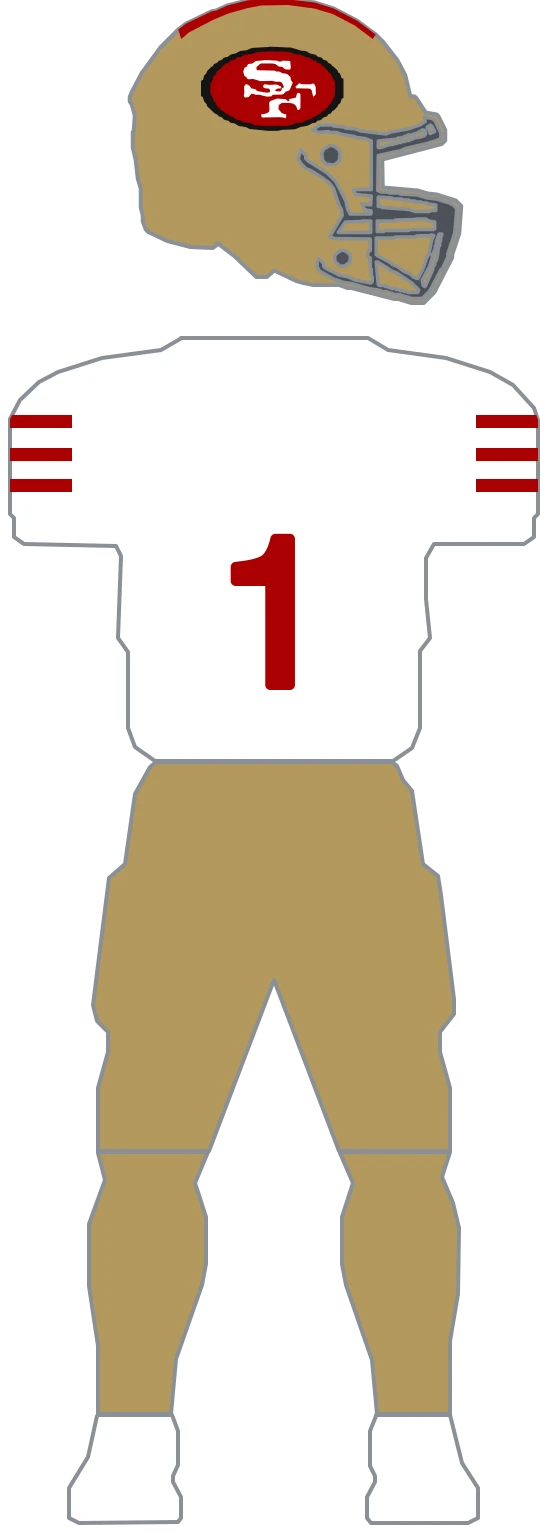
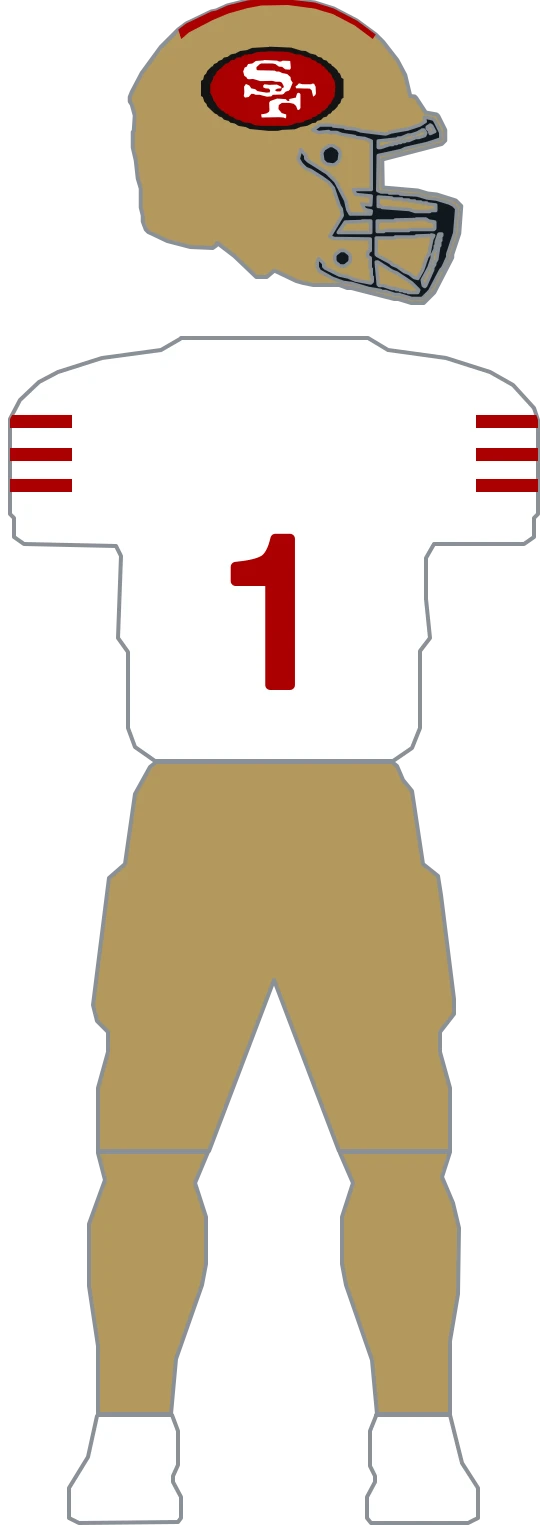
feat(uniforms): migrate 49ers to composable parts and set its black + gold facemasks (#674)
All three San Francisco kits are ONE construction with tokens swapped — crown
stripe, three sleeve bands, and the oval decal (black ring, colored field,
white letters). Home and away share the SAME gold shell (black-ring oval) and
SAME gold pants; Rivalries is the one genuinely different kit, a black shell
and black pants under a black body. Parts express that: 2 helmets (H1 gold,
H2 black), 3 jerseys (J1 red, J2 white, J3 black), 2 pants (P1 gold, P2
black), matching the measured target. The flat form reached gold through
`secondary` at home and `accent` away and black through `primary` only on
Rivalries; parts name those from a team palette, with the decal keyline kept
as a fixed literal (it stays black on both shells).

The migration's parity gate proved all 9 niners rasters (3 kits x 2 variants)
byte-identical against the flat definition, then the flat definition and its
builder helpers were deleted and the team removed from MIGRATED, per the
one-time-proof lifecycle (depth#660).

Facemask follows the parts migration per phase order: the classic matte-gold
shell wears a black cage (named sources; the GUD composite reads it at
#000000), and the 2025 Rivalries black shell wears a gold cage (Riddell:
"low gloss black shell, flash gold facemask"). Only the three -full rasters
move, each change confined to its helmet region (verified pixel-diffed).

diff --git a/lib/uniforms/teams/niners.parts.ts b/lib/uniforms/teams/niners.parts.ts
@@ -1,0 +1,159 @@
+// San Francisco authored as composable parts. Geometry is imported unchanged from niners.ts —
+// this file only restates WHICH parts each kit combines, and names every color from the team
+// palette instead of the kit row's shifting primary/secondary/accent.
+//
+// All three kits are ONE construction with the tokens swapped — crown stripe, three bands per
+// sleeve, and the oval decal (black ring, colored field, white letters). What actually differs:
+// home and away wear the SAME gold shell and SAME gold pants, and away and home differ only in
+// the jersey body and the bands; Rivalries is the one kit that is genuinely different, a black
+// shell and black pants under a black body. So the shared gold helmet and gold pants are one part
+// each, and the black shell/pants are another — the flat form reached gold through `secondary`
+// at home and `accent` away, and black through `primary` only on Rivalries.
+//
+// The decal keyline is fixed: it stays black on both the gold and black shells, so it is authored
+// as a palette literal rather than resolving from any kit's tokens.
+
+import { HELMET_CROWN_STRIPE_PATH } from './shared';
+import {
+  NINERS_DECAL_BLACK,
+  NINERS_DECAL_FIELD_PATH,
+  NINERS_DECAL_LETTERS_PATH,
+  NINERS_DECAL_RING_PATH,
+  NINERS_SLEEVE_X_LEFT,
+  NINERS_SLEEVE_X_RIGHT,
+  NINERS_STRIPE_HEIGHT,
+  NINERS_STRIPE_TOPS,
+} from './niners';
+import { compileParts, type PartLayer, type TeamPartsDefinition, type UniformPart } from './parts';
+import type { UniformSurface } from './types';
+
+const fill = (id: string, surface: UniformSurface, d: string, color: string): PartLayer => ({
+  id,
+  surface,
+  d,
+  clip: true,
+  kind: 'fill',
+  fill: color,
+});
+
+// Three bands at the end of each sleeve, mirrored. Same painting in every kit; only the color
+// differs, which the jersey part supplies.
+function sleeveStripes(color: string): PartLayer[] {
+  const out: PartLayer[] = [];
+  const sides: [UniformSurface, number[]][] = [
+    ['sleeve-left', NINERS_SLEEVE_X_LEFT],
+    ['sleeve-right', NINERS_SLEEVE_X_RIGHT],
+  ];
+  NINERS_STRIPE_TOPS.forEach((top, i) => {
+    for (const [surface, [x0, x1]] of sides) {
+      const side = surface === 'sleeve-left' ? 'left' : 'right';
+      out.push(
+        fill(
+          `niners-sleeve-stripe-${i}-${side}`,
+          surface,
+          `M${x0},${top} H${x1} V${top + NINERS_STRIPE_HEIGHT} H${x0} Z`,
+          color
+        )
+      );
+    }
+  });
+  return out;
+}
+
+// Crown stripe + oval decal, shared by the two shells. The crown stripe takes the field color;
+// the oval is black ring, colored field, white letters.
+function helmetMarks(field: string): PartLayer[] {
+  return [
+    fill('niners-helmet-crown-stripe', 'helmet', HELMET_CROWN_STRIPE_PATH, field),
+    {
+      id: 'niners-decal-ring',
+      surface: 'helmet',
+      d: NINERS_DECAL_RING_PATH,
+      clip: true,
+      kind: 'fill',
+      fill: 'decalBlack',
+    },
+    {
+      id: 'niners-decal-field',
+      surface: 'helmet',
+      d: NINERS_DECAL_FIELD_PATH,
+      clip: true,
+      kind: 'fill',
+      fill: field,
+    },
+    {
+      id: 'niners-decal-letters',
+      surface: 'helmet',
+      d: NINERS_DECAL_LETTERS_PATH,
+      clip: true,
+      kind: 'fill',
+      fill: 'white',
+    },
+  ];
+}
+
+// The gold shell with the red crown stripe and oval — one object, shared by home and away. The
+// classic matte-gold shell wears a black cage (collegehelmetstore / named sources; the GUD
+// composite reads the bars at #000000). The shared neutral #4b5158 it replaces is a mid-grey that
+// looks wrong against the gold.
+const HELMET_GOLD: UniformPart = { base: 'gold', facemask: 'black', layers: helmetMarks('red') };
+
+// Rivalries' black shell, the same crown stripe and oval in red, but with a gold cage (Riddell:
+// "low gloss black shell, flash gold facemask" — the 2025 Rivalries shell specifically).
+const HELMET_BLACK: UniformPart = { base: 'black', facemask: 'gold', layers: helmetMarks('red') };
+
+// Home jersey: red body, white sleeve bands, white numerals.
+const JERSEY_RED: UniformPart = {
+  base: 'red',
+  layers: sleeveStripes('white'),
+  number: { fill: 'white', outline: 'white', outlineWidth: 10 },
+};
+
+// Away jersey: white body, red sleeve bands, red numerals.
+const JERSEY_WHITE: UniformPart = {
+  base: 'white',
+  layers: sleeveStripes('red'),
+  number: { fill: 'red', outline: 'red', outlineWidth: 10 },
+};
+
+// Rivalries jersey: black body, red sleeve bands, red numerals ringed gold (the one kit where the
+// keyline really shows — thin at 14).
+const JERSEY_BLACK: UniformPart = {
+  base: 'black',
+  layers: sleeveStripes('red'),
+  number: { fill: 'red', outline: 'gold', outlineWidth: 14 },
+};
+
+// Plain gold pants (home + away) and plain black pants (Rivalries). No pant stripe on any kit.
+const PANTS_GOLD: UniformPart = { base: 'gold', layers: [] };
+const PANTS_BLACK: UniformPart = { base: 'black', layers: [] };
+
+export const NINERS_PARTS: TeamPartsDefinition = {
+  teamId: '49ers',
+  // Jersey hexes from the curated rows (teamcolorcodes). Gold is the helmet/pants shell — the
+  // same physical color whether home reaches it through 'secondary' or away through 'accent'.
+  // Rivalries' black is its own primary.
+  palette: {
+    red: '#AA0000',
+    gold: '#B3995D',
+    white: '#FFFFFF',
+    black: '#101820',
+    // The decal keyline stays black on both shells (see niners.ts — sampled from the GUD
+    // composite, #141414 rather than pure black).
+    decalBlack: NINERS_DECAL_BLACK,
+  },
+  helmets: { gold: HELMET_GOLD, black: HELMET_BLACK },
+  jerseys: {
+    red: JERSEY_RED,
+    white: JERSEY_WHITE,
+    black: JERSEY_BLACK,
+  },
+  pants: { gold: PANTS_GOLD, black: PANTS_BLACK },
+  kits: {
+    home: { helmet: 'gold', jersey: 'red', pants: 'gold' },
+    away: { helmet: 'gold', jersey: 'white', pants: 'gold' },
+    'rivalries-2025': { helmet: 'black', jersey: 'black', pants: 'black' },
+  },
+};
+
+export const NINERS_UNIFORMS_FROM_PARTS = compileParts(NINERS_PARTS);

diff --git a/lib/uniforms/teams/niners.ts b/lib/uniforms/teams/niners.ts
@@ -1,20 +1,8 @@
-import { HELMET_CROWN_STRIPE_PATH } from './shared';
-import type { ColorRef, TeamUniformDefinition, UniformLayer, UniformSurface } from './types';
-
-// San Francisco's three archived kits, redrawn from the Gridiron Uniform Database 2025 composite in
-// nfl-uniform-refs/49ers (home is that sheet's row-1 figure 1, Rivalries its row-1 figure 3, away
-// its row-2 figure 1). Sleeve paths use the outer 588-wide mannequin space; the helmet decal stays
-// in raw helmet coordinates (x:139-802, y:65-674). Right paths mirror the left across the
-// centerline x=294 (mirroredX = 588 - x).
-//
-// Unusually for this set, all three kits are ONE construction with the tokens swapped: a crown
-// stripe, three bands at the end of each sleeve, and the oval on the shell. Nothing else — no
-// shoulder yoke, no collar trim, and no pant stripe on any of the three (the striped swatch beside
-// each figure in the composite is the sock, not the pant). So the shared parts live in `defaults`
-// and each kit override is just its colors.
-//
-// Out of scope on every kit, per the usual boundary: the "49ERS" chest wordmark, the league shield,
-// and the Rivalries kit's collar and script marks.
+// San Francisco's construction geometry — the oval decal and sleeve-band constants only.
+// The composable parts definition that consumes them lives in ./niners.parts.ts; the former flat
+// NINERS_UNIFORMS was deleted in the migration that proved parts render byte-identically (see
+// parts-parity.test.ts for the one-time gate). The crown stripe path comes from ./shared (a fact
+// about the mannequin shell shared with Seattle).
 
 // White is a literal on the home kit. Its palette is red over gold with accent === secondary (ESPN
 // supplies only two colors), so no token resolves to the sleeve bands or the numerals — resolving
@@ -47,101 +35,3 @@ export const NINERS_STRIPE_TOPS = [460, 493, 524];
 export const NINERS_STRIPE_HEIGHT = 13;
 export const NINERS_SLEEVE_X_LEFT = [30, 92];
 export const NINERS_SLEEVE_X_RIGHT = [496, 558];
-
-const GENERIC_STRIPPED = [
-  'generic-helmet-stripe',
-  'generic-sleeve-yoke-left',
-  'generic-sleeve-yoke-right',
-  'generic-sleeve-stripe-left',
-  'generic-sleeve-stripe-right',
-  'generic-collar',
-  'generic-pants-stripe-left',
-  'generic-pants-stripe-right',
-];
-
-function sleeveStripes(fill: ColorRef): UniformLayer[] {
-  const out: UniformLayer[] = [];
-  const sides: [UniformSurface, number[]][] = [
-    ['sleeve-left', NINERS_SLEEVE_X_LEFT],
-    ['sleeve-right', NINERS_SLEEVE_X_RIGHT],
-  ];
-
-  NINERS_STRIPE_TOPS.forEach((top, i) => {
-    for (const [surface, [x0, x1]] of sides) {
-      const side = surface === 'sleeve-left' ? 'left' : 'right';
-      out.push({
-        id: `niners-sleeve-stripe-${i}-${side}`,
-        surface,
-        d: `M${x0},${top} H${x1} V${top + NINERS_STRIPE_HEIGHT} H${x0} Z`,
-        clip: true,
-        kind: 'fill',
-        fill,
-      });
-    }
-  });
-
-  return out;
-}
-
-// Ring, field, letters — painted in that order, each a plain union (see the trace note above).
-function ovalDecal(field: ColorRef): UniformLayer[] {
-  const parts: { id: string; d: string; fill: ColorRef }[] = [
-    { id: 'niners-decal-ring', d: NINERS_DECAL_RING_PATH, fill: NINERS_DECAL_BLACK },
-    { id: 'niners-decal-field', d: NINERS_DECAL_FIELD_PATH, fill: field },
-    { id: 'niners-decal-letters', d: NINERS_DECAL_LETTERS_PATH, fill: NINERS_WHITE },
-  ];
-  return parts.map((layer): UniformLayer => ({
-    ...layer,
-    surface: 'helmet',
-    clip: true,
-    kind: 'fill',
-  }));
-}
-
-function crownStripe(fill: ColorRef): UniformLayer[] {
-  return [
-    {
-      id: 'niners-helmet-crown-stripe',
-      surface: 'helmet',
-      d: HELMET_CROWN_STRIPE_PATH,
-      clip: true,
-      kind: 'fill',
-      fill,
-    },
-  ];
-}
-
-export const NINERS_UNIFORMS: TeamUniformDefinition = {
-  teamId: '49ers',
-  defaults: { removeLayerIds: GENERIC_STRIPPED },
-  kits: {
-    // Gold shell and gold pants under a red body. The oval's field is this palette's own primary,
-    // and the crown stripe takes the same red.
-    home: {
-      helmetColor: 'secondary',
-      pantsColor: 'secondary',
-      layers: [...crownStripe('primary'), ...ovalDecal('primary'), ...sleeveStripes(NINERS_WHITE)],
-      number: { fill: NINERS_WHITE, outline: NINERS_WHITE, outlineWidth: 10 },
-    },
-    // White body over the same gold shell and pants. The away palette moves white into primary and
-    // red into secondary, so every red element takes the inverse token and the bands — white at
-    // home — become red here.
-    away: {
-      helmetColor: 'accent',
-      pantsColor: 'accent',
-      layers: [
-        ...crownStripe('secondary'),
-        ...ovalDecal('secondary'),
-        ...sleeveStripes('secondary'),
-      ],
-      number: { fill: 'secondary', outline: 'secondary', outlineWidth: 10 },
-    },
-    // Rivalries is black on black with a black shell: the only kit of the three whose helmet and
-    // pants take primary. Its numerals are the one place in this module where a keyline is really
-    // visible in the reference — red on a gold trim, thin enough to need a narrow width.
-    'rivalries-2025': {
-      layers: [...crownStripe('accent'), ...ovalDecal('accent'), ...sleeveStripes('accent')],
-      number: { fill: 'accent', outline: 'secondary', outlineWidth: 14 },
-    },
-  },
-};

diff --git a/lib/uniforms/teams/index.ts b/lib/uniforms/teams/index.ts
@@ -18,7 +18,7 @@ import { GIANTS_UNIFORMS } from './giants';
 import { JAGUARS_UNIFORMS } from './jaguars';
 import { JETS_UNIFORMS } from './jets';
 import { LIONS_UNIFORMS } from './lions';
-import { NINERS_UNIFORMS } from './niners';
+import { NINERS_UNIFORMS_FROM_PARTS } from './niners.parts';
 import { PANTHERS_UNIFORMS } from './panthers';
 import { PATRIOTS_UNIFORMS } from './patriots';
 import { RAIDERS_UNIFORMS_FROM_PARTS } from './raiders.parts';
@@ -51,7 +51,7 @@ chiefs: CHIEFS_UNIFORMS_FROM_PARTS,
   commanders: COMMANDERS_UNIFORMS,
   cowboys: COWBOYS_UNIFORMS_FROM_PARTS,
   dolphins: DOLPHINS_UNIFORMS,
-  '49ers': NINERS_UNIFORMS,
+  '49ers': NINERS_UNIFORMS_FROM_PARTS,
   eagles: EAGLES_UNIFORMS,
   falcons: FALCONS_UNIFORMS_FROM_PARTS,
   giants: GIANTS_UNIFORMS,
